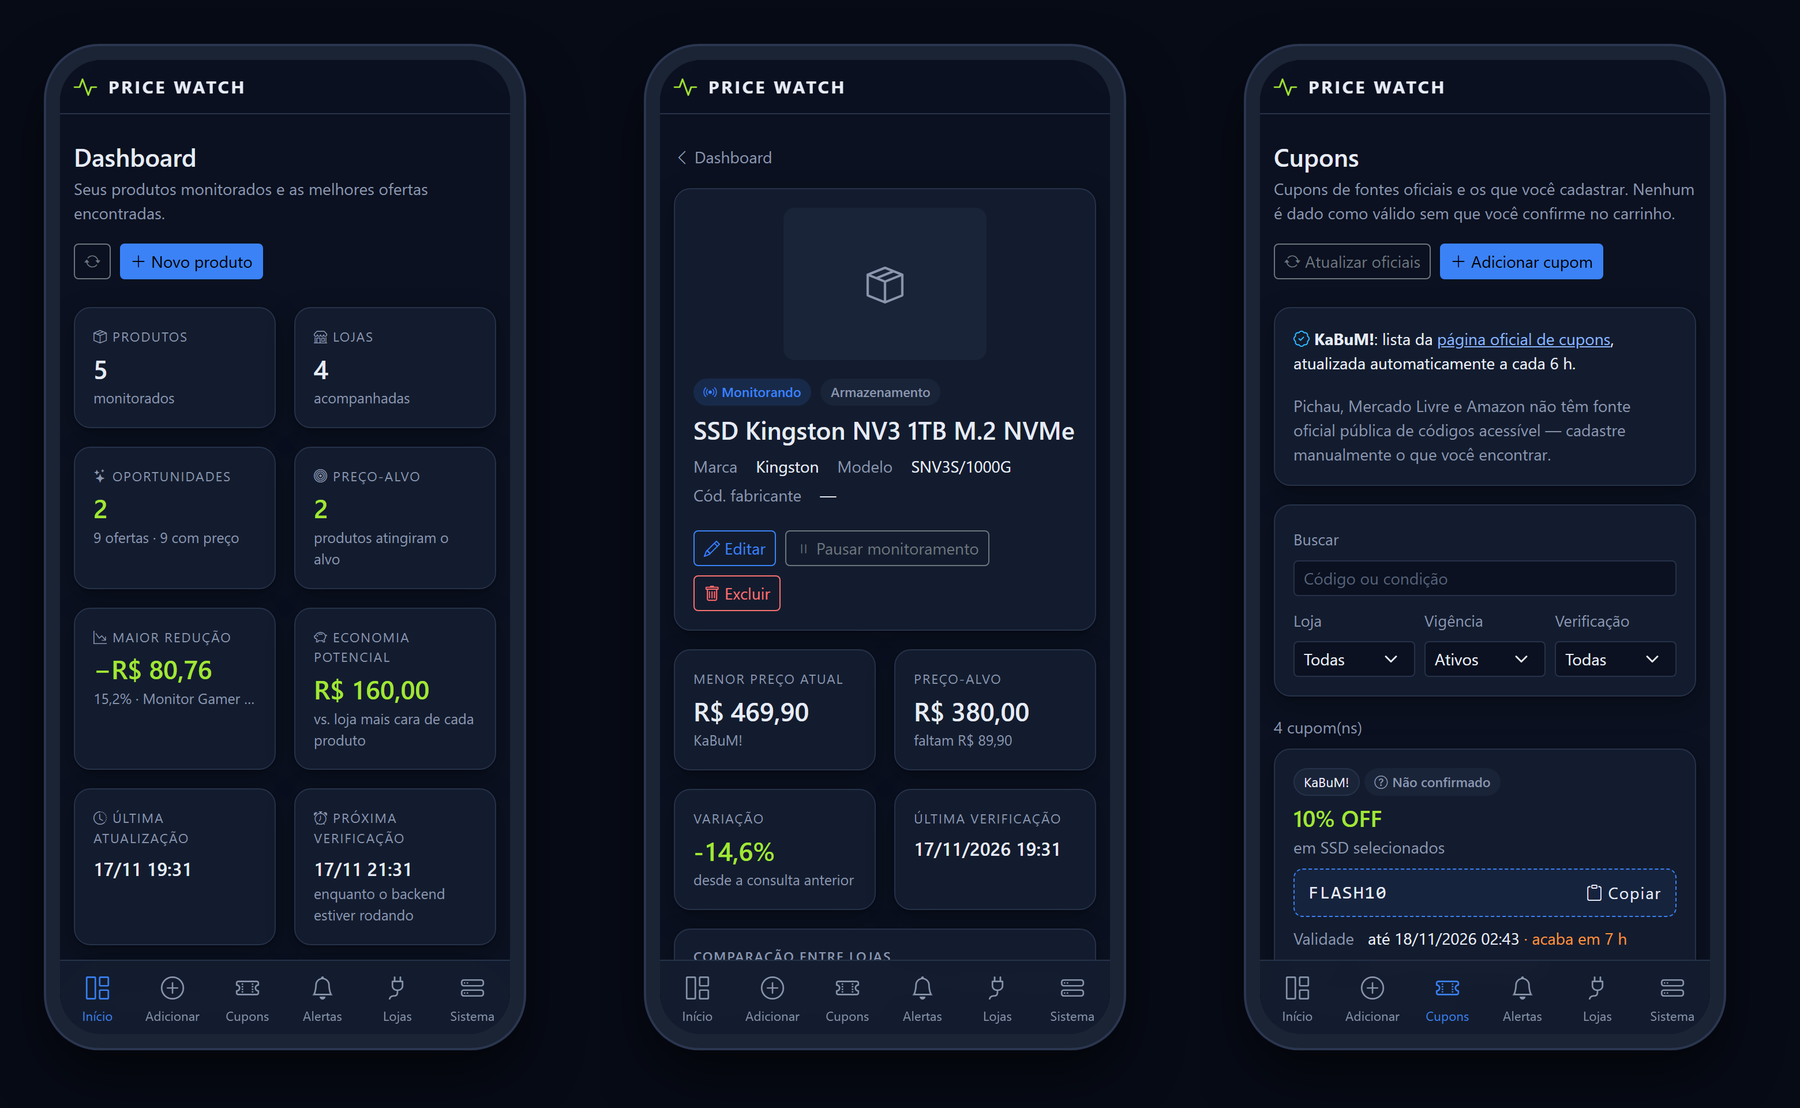
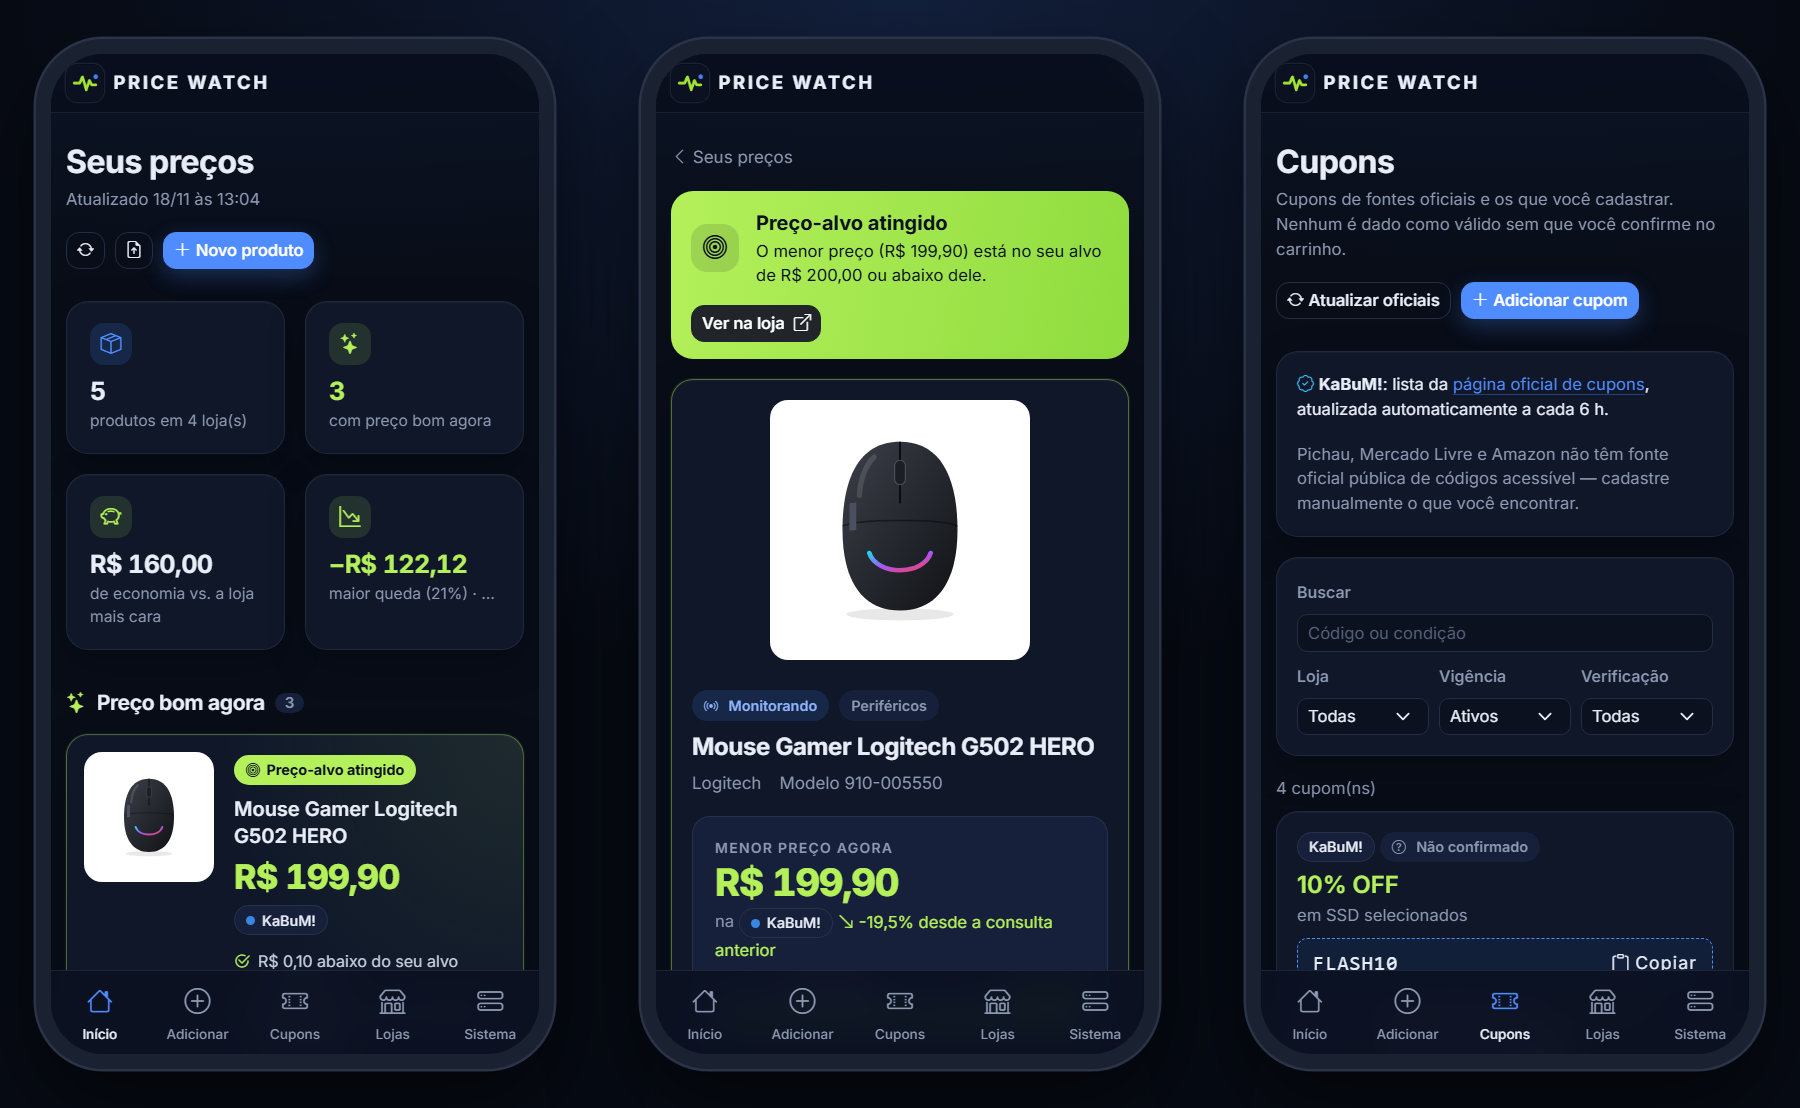
Capturas do README com o novo visual
- Seis capturas refeitas com dados de demonstração e ilustrações próprias
  dos produtos (sem fotos de lojas ou fabricantes no repositório).
- Cards de "Preço bom agora": coluna da foto se ajusta à largura para os
  botões caberem numa linha só.
- Legenda dos alertas marcada como opcional.

Changed region(s): [[0.3422, 0.0, 0.6844, 0.9819], [0.6844, 0.0307, 0.9956, 0.9819], [0.0, 0.0307, 0.3111, 0.9819]]

diff --git a/frontend/src/app/shared/deal-card.ts b/frontend/src/app/shared/deal-card.ts
@@ -54,7 +54,7 @@ import { ProductImage } from './product-image';
   `,
   styles: `
     .deal {
-      display: grid; grid-template-columns: 9.5rem 1fr; gap: 1rem; padding: 0.85rem;
+      display: grid; grid-template-columns: clamp(6.5rem, 33%, 9.5rem) 1fr; gap: 1rem; padding: 0.85rem;
       border-radius: var(--pw-radius); border: 1px solid rgba(180, 240, 90, 0.35);
       background:
         radial-gradient(120% 140% at 100% 0%, rgba(180, 240, 90, 0.09), transparent 55%),

diff --git a/README.md b/README.md
@@ -58,7 +58,7 @@
   </tr>
   <tr>
     <td align="center"><sub><b>Cupons com código para copiar</b></sub></td>
-    <td align="center"><sub><b>Alertas no celular: canais e preferências</b></sub></td>
+    <td align="center"><sub><b>Alertas no celular (opcional): canais e preferências</b></sub></td>
   </tr>
 </table>
 
